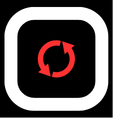
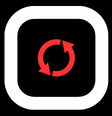
Polish, last commit before multiplayer work

diff --git a/style.css b/style.css
@@ -1,4 +1,6 @@
 .tic-tac-button {
+    cursor: pointer;
+
     /*Button*/
     background-color: rgb(255, 255, 255);
     width: 100px;
@@ -21,6 +23,8 @@
 }
 
 .menu-button {
+    cursor: pointer;
+
     /*Body color*/
     background-color: rgb(169, 169, 169);
     color: rgb(255, 0, 0);
@@ -48,26 +52,46 @@
 }
 
 .icon-button {
-    width: 112;
-    height: 117;
+    background-size: 102% 102%;
+    background-repeat: no-repeat;
+
+    cursor: pointer;
+
+    width: 80px;
+    height: 80px;
+
+    background-color: transparent;
 
     border: none;
 
-    overflow: hidden;
 }
 
 .icon-button:hover {
-    transform: scale(1.01);
+    transform: scale(1.02);
     transition: 0.25s;
 }
 
 .icon-button:active {
+    outline: none;
     transform: scale(1.055);
     transition: 0.35s;
 }
 
+.title-button {
+    background-image: url(./assets/titleCard.png);
+
+    /*Sizing*/
+    width: 490;
+    height: 52;
+
+    border: none;
+    overflow: hidden;
+}
+
 
 .tic-tac-woah-button {
+    cursor: pointer;
+
     background-image: url(./assets/TicTacWoah.png);
 
     /*Sizing*/
@@ -138,16 +162,22 @@ h1:hover {
     -webkit-text-stroke-width: 2.5px;
 }
 
-.h1-blue {
+.blue-text {
     /*Color*/
     color:rgb(58, 124, 255);
     -webkit-text-stroke: 2px rgb(14, 0, 124);
 }
 
-.h1-red {
+.red-text {
     /*Color*/
     color:rgb(255, 58, 58);
     -webkit-text-stroke: 2px rgb(132, 0, 0);
+}
+
+.purple-text {
+    /*Color*/
+    color:rgb(191, 0, 255);
+    -webkit-text-stroke: 2px rgb(91, 0, 94);
 }
 
 .row {
@@ -164,10 +194,12 @@ h1:hover {
 
 hr {
     border: none;
-    height: 2px;
-    background-color: rgb(255, 255, 255);
+    border-radius: 50px;
+    height: 10px;
+    background-color: rgb(84, 69, 69);
     width: 60%;
     margin: 24px auto;
+    background-image: linear-gradient(to right, #dadada, #5a5a5a);
 }
 
 /*Had claude write this bit, I'll sort back through and trim soon*/

diff --git a/game.js b/game.js
@@ -6,6 +6,7 @@ let slotContents = new Array(boardRows * boardCols).fill("");
 /*Win algo vars*/
 let winCondition = localStorage.getItem("winAmount"); // Amount in a row required to win
 let currentGroupKey = 0; // Key used when creating a new group of connected pieces
+let turnCounter = 0;
 
 // Stores the amount in a certain direction for a given group, identified by its key
 let verticalGroups = new Map();
@@ -45,22 +46,26 @@ function generateGrid() {
 function takeTurn(position){
     // Check that space isn't occupied
     if(slotContents[position] === "") {
+        turnCounter++;
         if (isWinner(winCondition, parseInt(position, 10), team ? "O" : "X")) {
             win();
         }
         else{
+            if (turnCounter == slotContents.length) {
+                tie();
+            }
             switch (team) {
                 case 0:
                     team = 1;
-                    document.getElementById(position).innerHTML = '<h1 class="h1-red"> X </h1>';
+                    document.getElementById(position).innerHTML = '<h1 class="red-text"> X </h1>';
                     slotContents[position] = "X";
                     break;
                 case 1:
                     team = 0;
-                    document.getElementById(position).innerHTML = '<h1 class="h1-blue"> O </h1>';
+                    document.getElementById(position).innerHTML = '<h1 class="blue-text"> O </h1>';
                     slotContents[position] = "O";
                     break;
-        }
+            }
         }
 
     }
@@ -82,8 +87,13 @@ function restart(){
 }
 
 function win(){
-    localStorage.setItem('winner', team ? "O" : "X")
-    window.location.href = 'win.html'
+    localStorage.setItem('winner', team ? "O" : "X");
+    window.location.href = 'win.html';
+}
+
+function tie(){
+    localStorage.setItem('winner', 'Tie');
+    window.location.href = 'win.html';
 }
 
 /**

diff --git a/rules.js b/rules.js
@@ -4,13 +4,17 @@ let winAmount = 3;
 
 document.getElementById("rowSize").addEventListener("input", (e) => {
     document.getElementById("rowSizeCount").innerText = e.target.value;
-    rowSize = e.target.value;})
+    rowSize = e.target.value;
+    updateWinCondition();}
+    )
 document.getElementById("colSize").addEventListener("input", (e) => {
     document.getElementById("colSizeCount").innerText = e.target.value;
-    colSize = e.target.value;})
+    colSize = e.target.value;
+    updateWinCondition();})
 document.getElementById("winAmount").addEventListener("input", (e) => {
     document.getElementById("winAmountCount").innerText = e.target.value;
-    winAmount = e.target.value;})
+    winAmount = e.target.value;
+    updateWinCondition();})
 
 if(!(localStorage.getItem("rowSize")  == null)){
     rowSize = localStorage.getItem("rowSize");
@@ -22,8 +26,15 @@ if(!(localStorage.getItem("rowSize")  == null)){
     document.getElementById("colSizeCount").innerText = colSize;
 
     winAmount = localStorage.getItem("winAmount");
+    winAmount = Math.min(Math.max(rowSize, colSize), winAmount);
     document.getElementById("winAmount").value = winAmount;
     document.getElementById("winAmountCount").innerText = winAmount;
+}
+
+function updateWinCondition() {
+    winAmount = Math.min(Math.max(rowSize, colSize), winAmount);
+    document.getElementById("winAmountCount").innerText = winAmount;
+    document.getElementById("winAmount").value = winAmount;
 }
 
 function enter() {

diff --git a/win.js b/win.js
@@ -1,6 +1,12 @@
 let winningText = document.getElementById("winning-team");
 let winner = localStorage.getItem("winner");
 
-
-winningText.innerText = winner;
-winningText.classList.add(winner === "X" ? "h1-red" : "h1-blue");
+if (winner === "Tie") {
+    winningText.classList.add("purple-text");
+    document.getElementById("winning-state-text").remove();
+    winningText.innerText = winner + ", you're both bad!";
+}
+else {
+    winningText.classList.add(winner === "X" ? "red-text" : "blue-text");
+    winningText.innerText = winner;
+}

diff --git a/win.html b/win.html
@@ -4,12 +4,10 @@
         <title>Tic Tac Woah</title>
     </head>
     <div>
-        <h1 id="winning-team">
-            
-        </h1>
+        <h1 id="winning-team" style="font-size: 90; margin-bottom: 0px;"></h1>
     </div>
     <div>
-        <h1>
+        <h1 id="winning-state-text" style="font-size: 50; margin-top: 0px;">
         Wins!
         </h1>
     </div>

diff --git a/start.html b/start.html
@@ -4,7 +4,9 @@
         <title>Boredom Is Yuck</title>
     </head>
     <body>
-        <div><h1 class="h1-red">Boredom Is Yuck</h1></div>
+        <div>
+            <button class="title-button"></button>
+        </div>
         <hr>
         <div>
             <button class="tic-tac-woah-button" onclick="window.location.href = 'rules.html'"></button>

diff --git a/rules.html b/rules.html
@@ -18,6 +18,6 @@
         <h1 class="h1-blue" id="winAmountCount">3</h1>
         <input type="range" min="3" max="13" value="3" id="winAmount" style="margin-bottom: 50px;">
     </div>
-    <button onclick="enter()" class="menu-button">Enter</button>
+    <button class="icon-button" style="background-image: url(./assets/edit.png);" onclick="enter()"></button>
     <script src="rules.js"></script>
 </html>